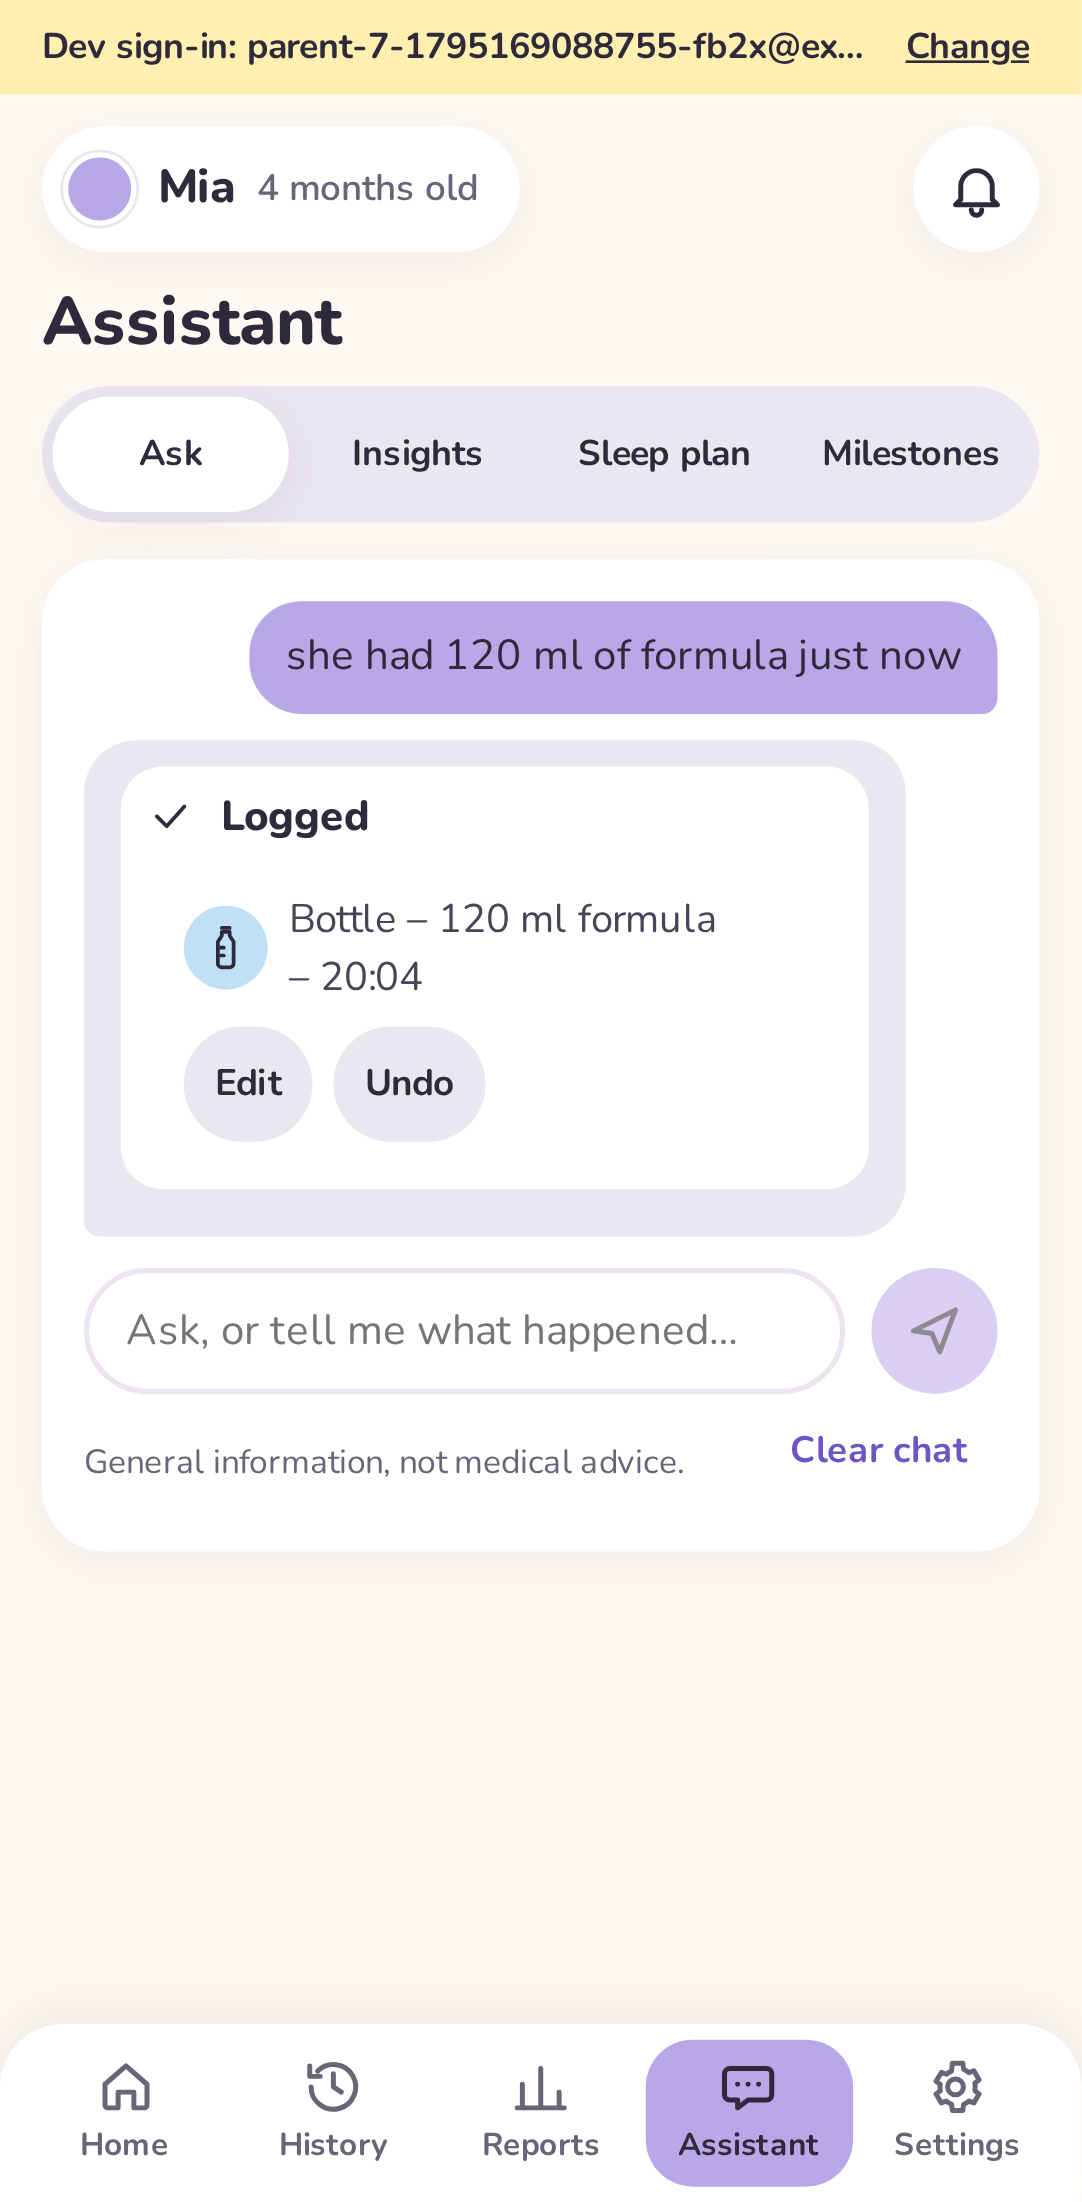
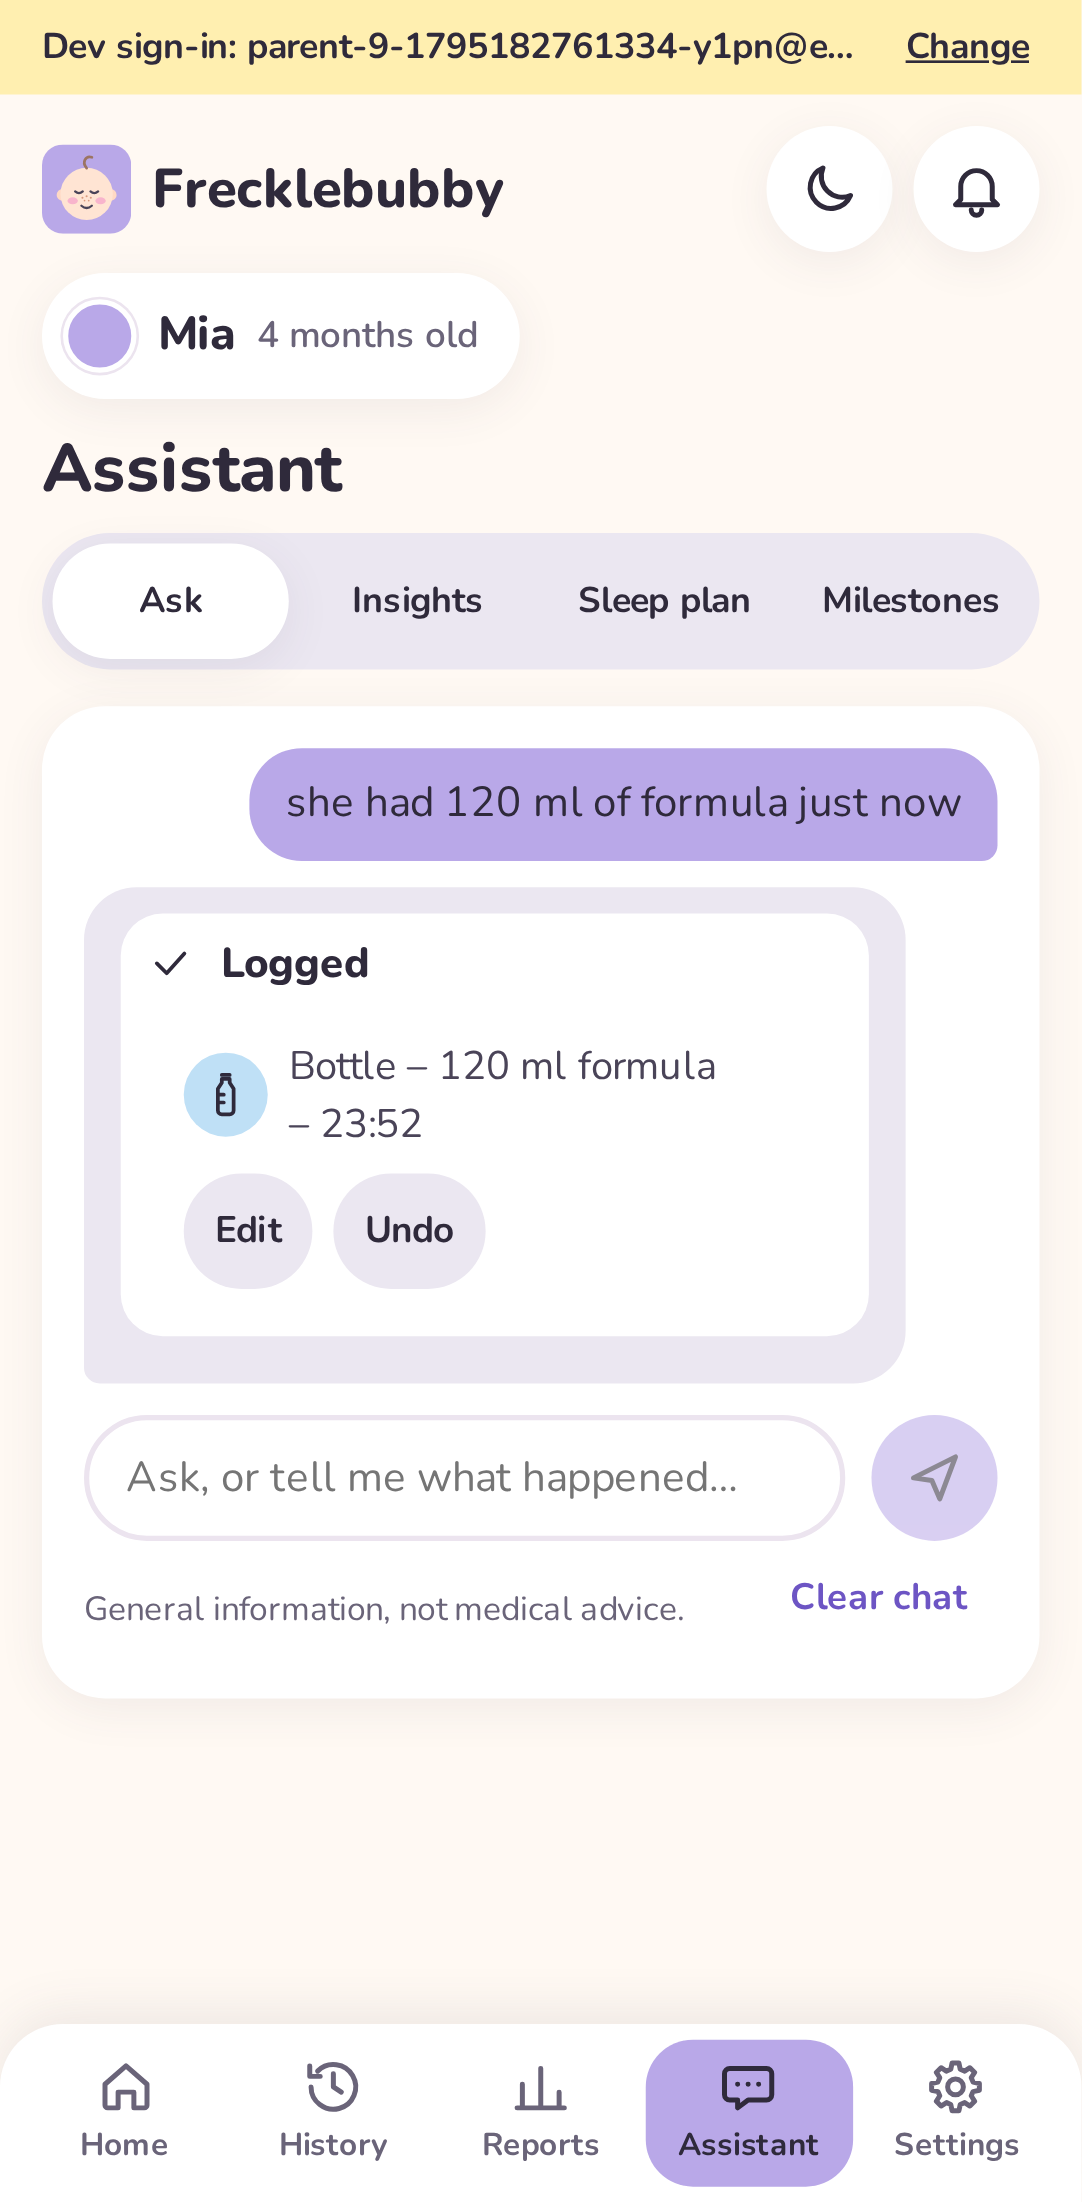
Update the screenshots for 0.4.0 and add the server pages to the gallery

diff --git a/README.md b/README.md
@@ -79,6 +79,16 @@ Your data stays on your server.
   <a href="docs/screenshots/confined.png"><img src="docs/screenshots/confined.png" alt="Confined-time warning" title="Confined-time warning" width="23%"></a>
 </p>
 
+**Run a server for more than one family**<br>
+<sub>Server access for the operator · Refused sign-in · Delete data · Waiting for the assistant</sub>
+
+<p>
+  <a href="docs/screenshots/server-access.png"><img src="docs/screenshots/server-access.png" alt="Server access for the operator" title="Server access for the operator" width="23%"></a>
+  <a href="docs/screenshots/no-access.png"><img src="docs/screenshots/no-access.png" alt="Refused sign-in" title="Refused sign-in" width="23%"></a>
+  <a href="docs/screenshots/delete-data.png"><img src="docs/screenshots/delete-data.png" alt="Delete data" title="Delete data" width="23%"></a>
+  <a href="docs/screenshots/assistant-waiting.png"><img src="docs/screenshots/assistant-waiting.png" alt="Waiting for the assistant" title="Waiting for the assistant" width="23%"></a>
+</p>
+
 <sub>Select a picture to see it in full size.</sub>
 
 </div>
